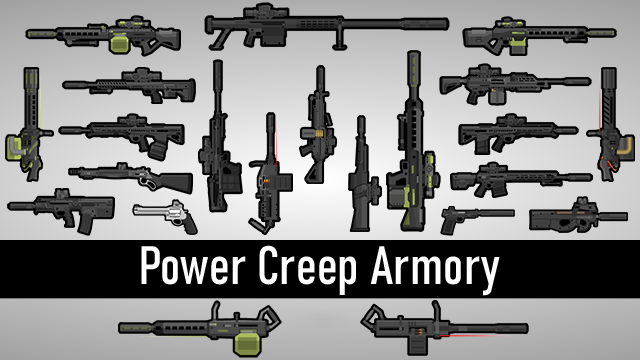
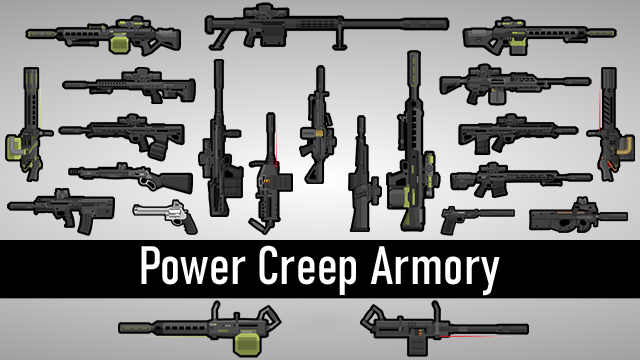
GM20

Changed region(s): [[0.3125, 0.1528, 0.4062, 0.6111], [0.5625, 0.8556, 0.8125, 0.9472], [0.625, 0.9778, 0.6875, 1.0]]

diff --git a/README.md b/README.md
@@ -22,7 +22,7 @@ Compatible with both the vanilla combat system and CE.
 - B-8 advanced charge BR
 ### Sniper rifles
 - Desert Tech SRS-A2 Tactical
-- GM6 Lynx Tactical
+- GM20 Jaguar Tactical
 - Anzio 20mm Tactical
 - A-20 advanced charge AMR
 ### Machine guns
